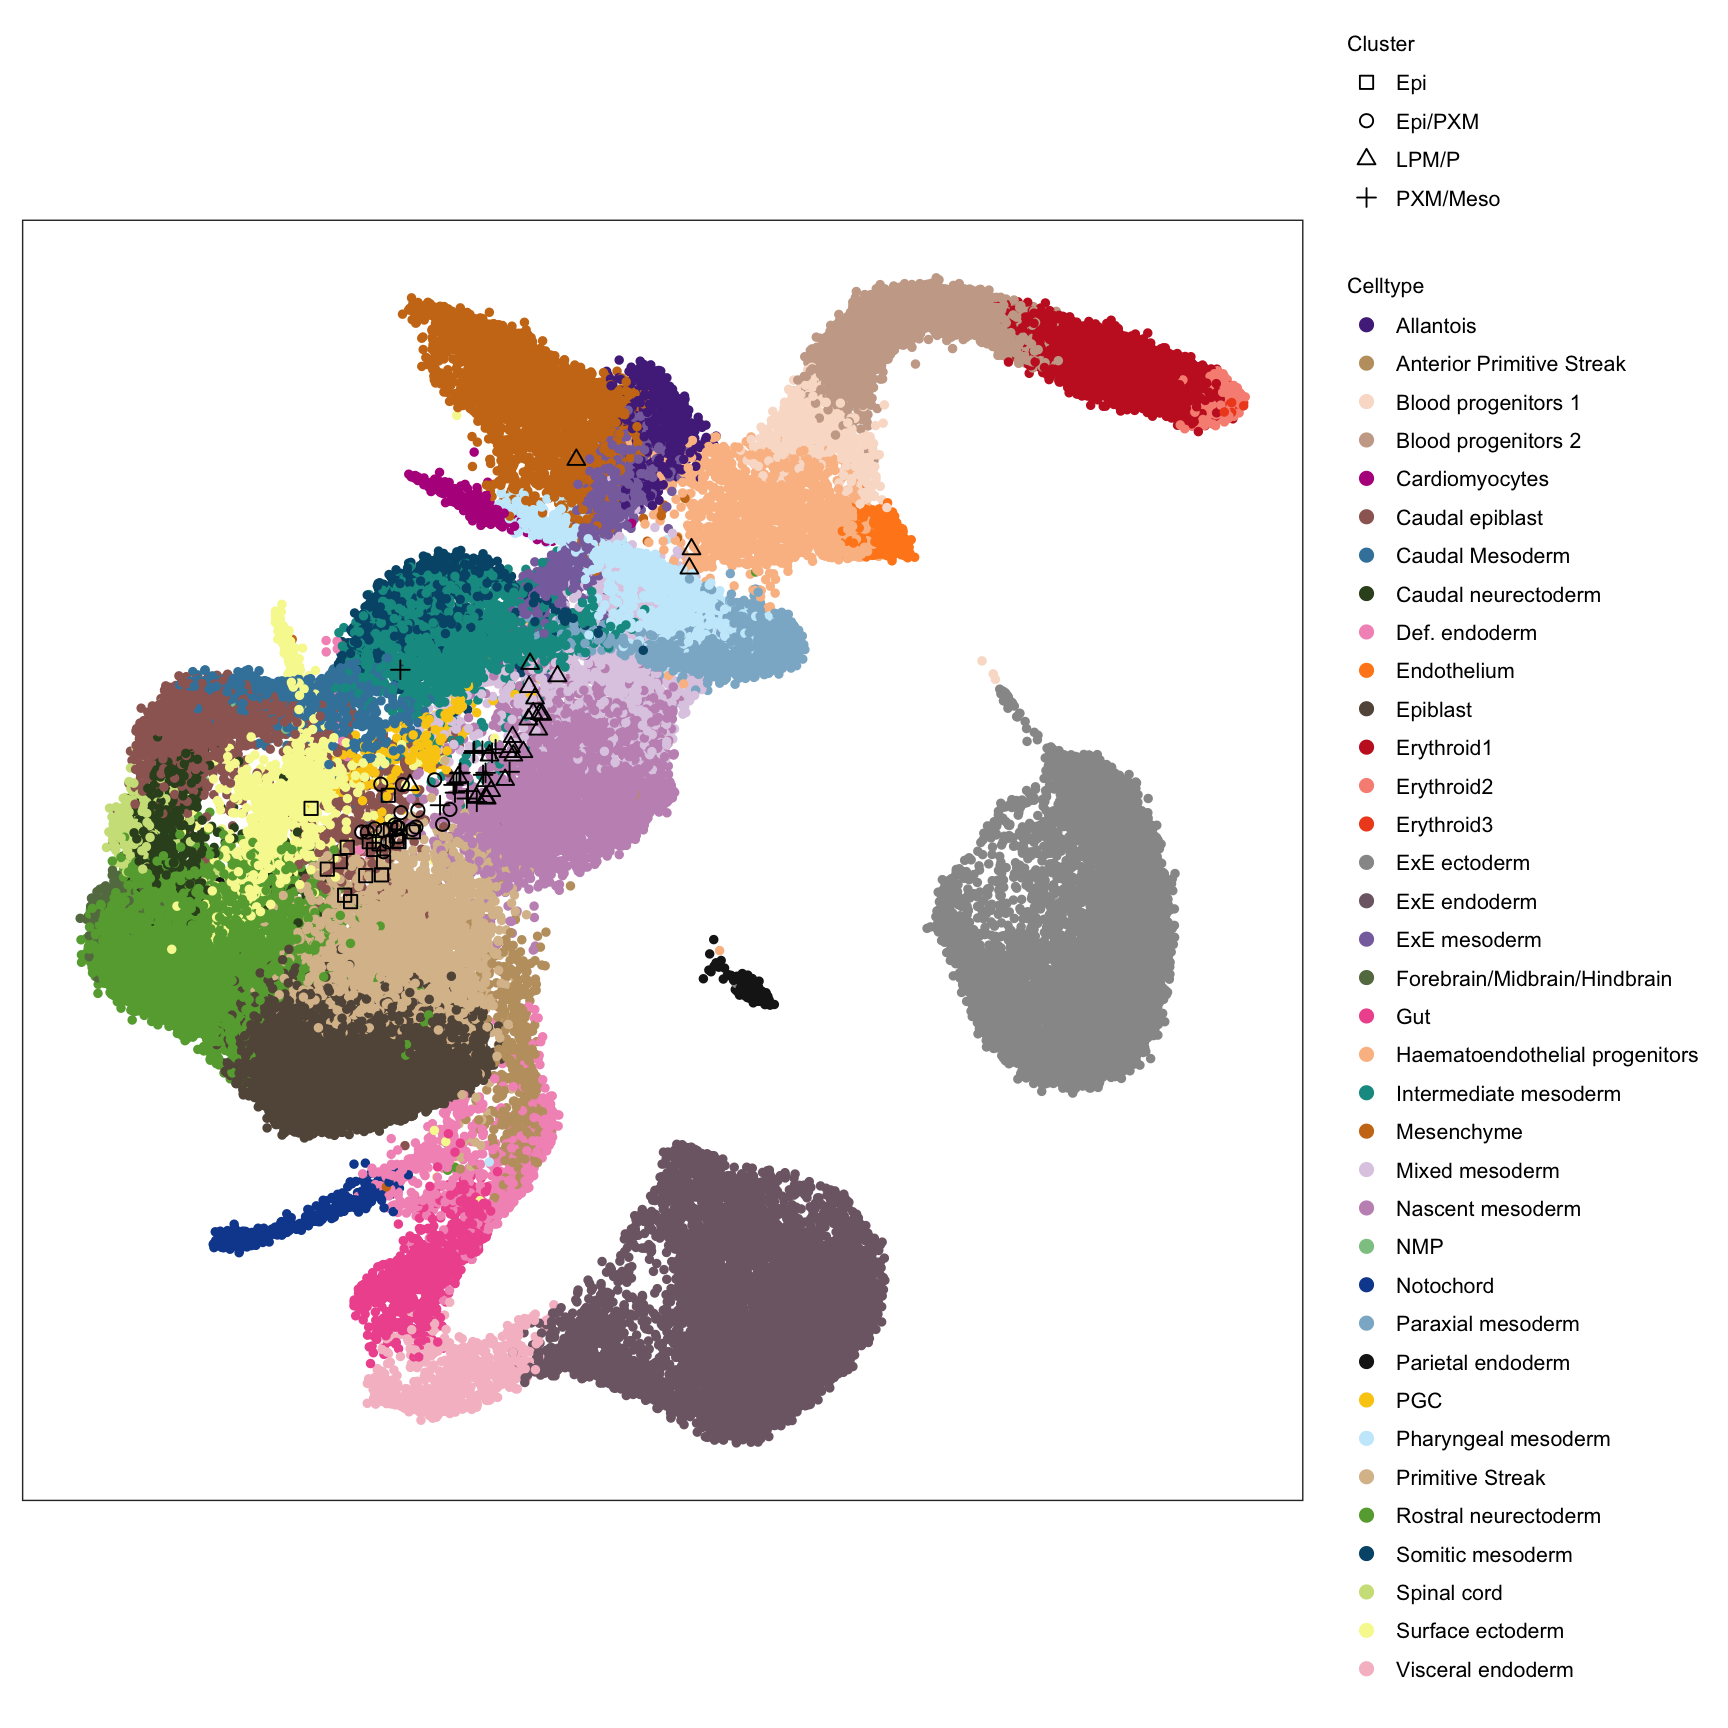
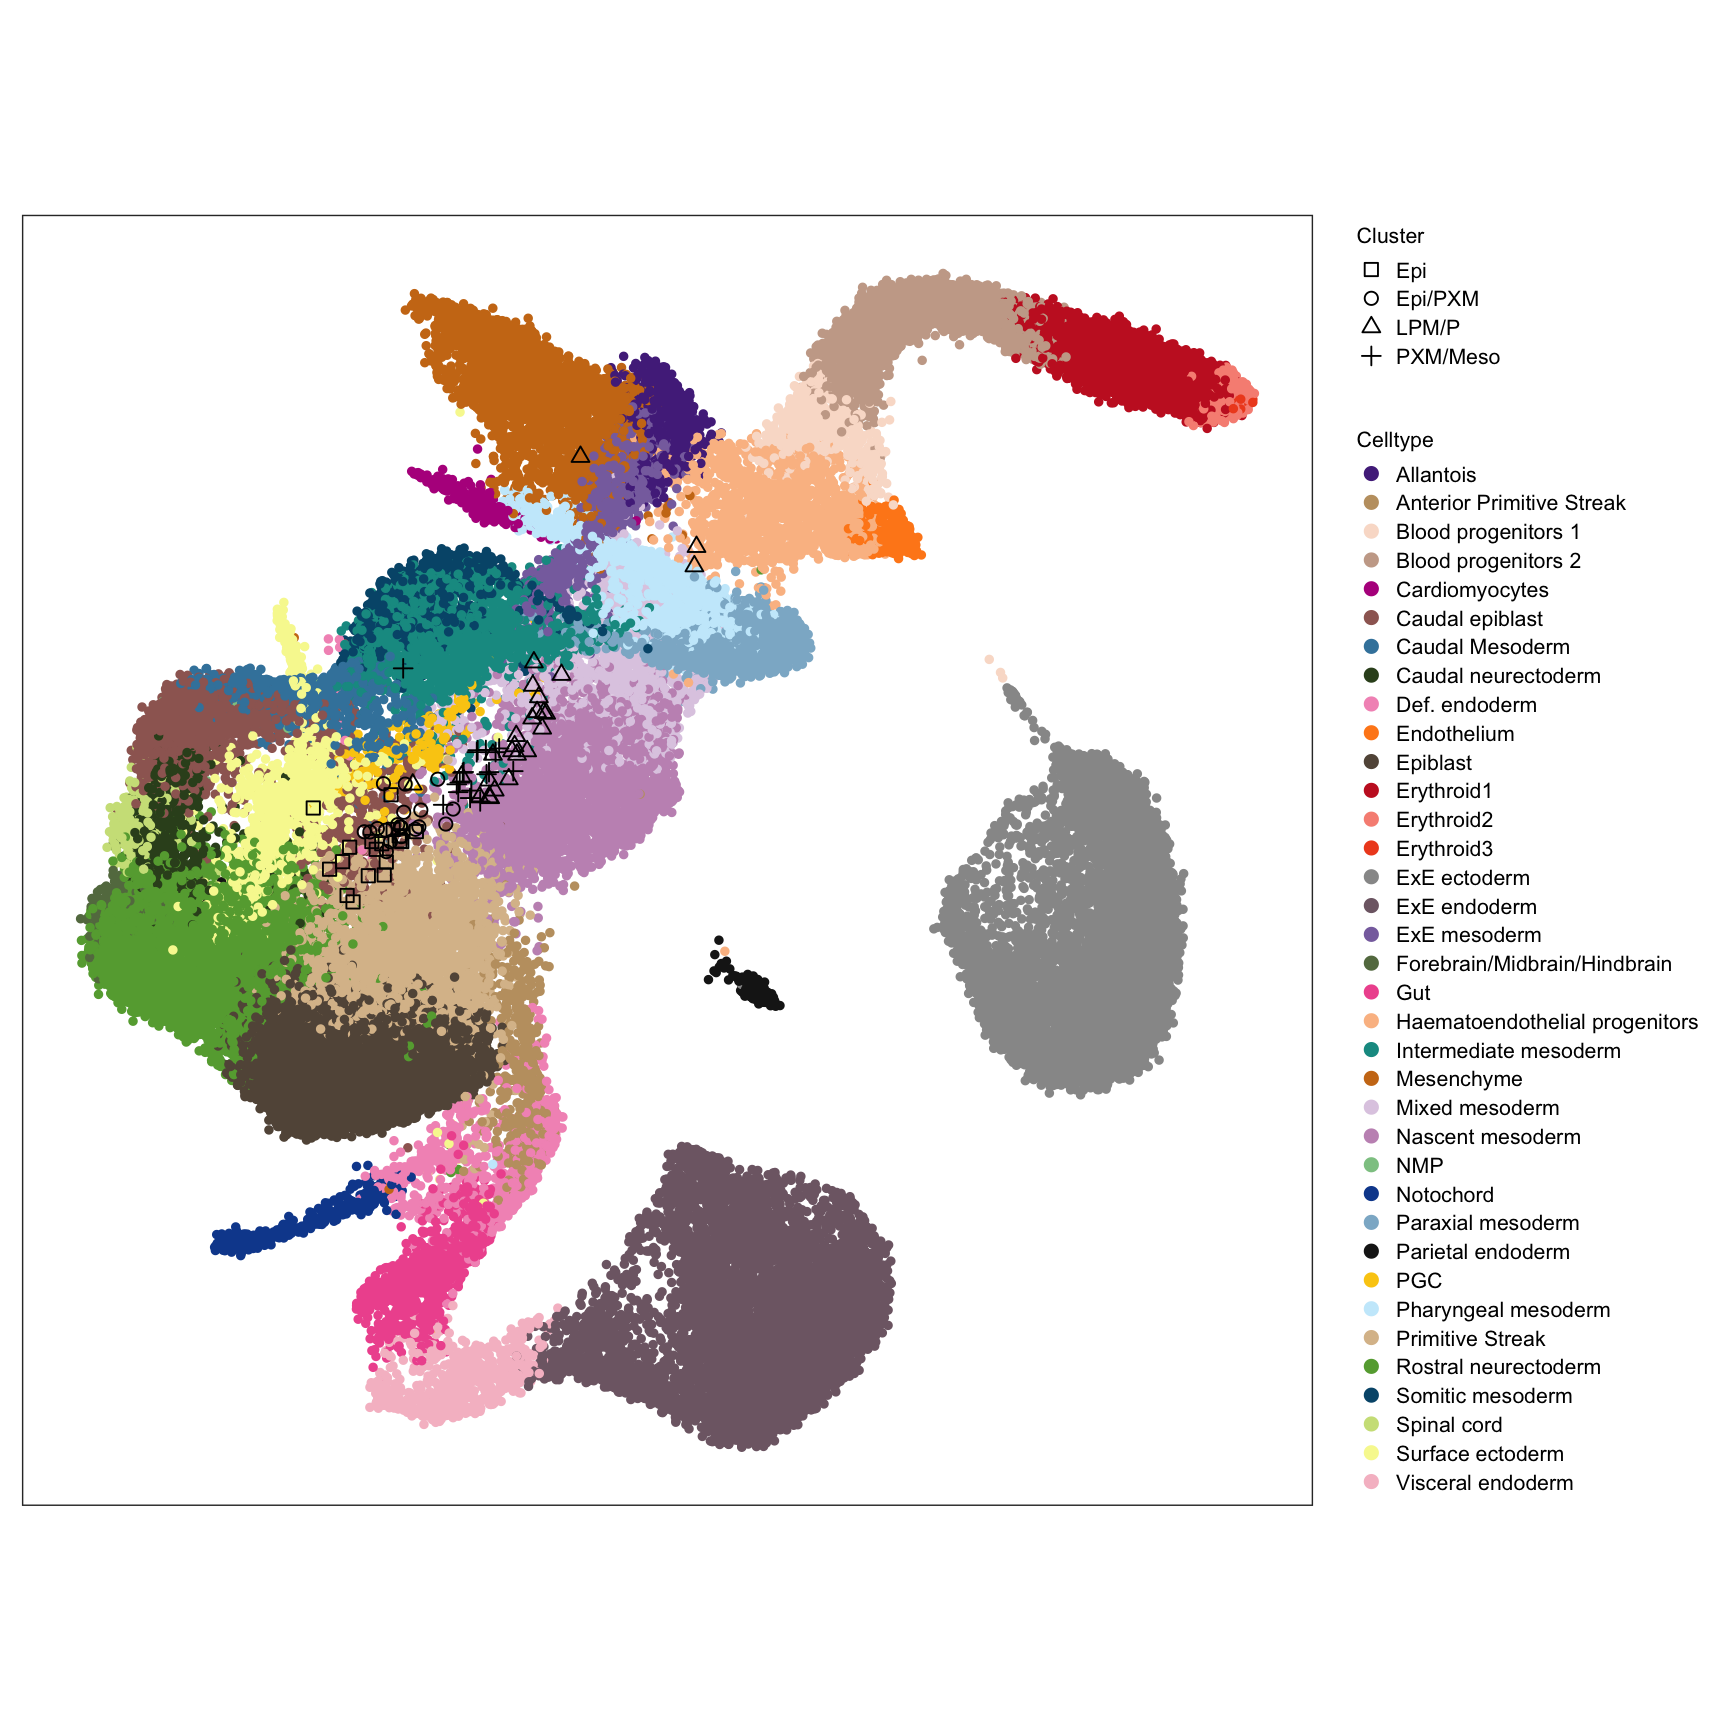
Build

diff --git a/docs/secondary-exploration.html b/docs/secondary-exploration.html
@@ -583,16 +583,16 @@ This reproducible <a href="http://rmarkdown.rstudio.com">R Markdown</a> analysis
 <div class="panel panel-default">
 <div class="panel-heading">
 <p class="panel-title">
-<a data-toggle="collapse" data-parent="#workflowr-checks" href="#strongRepositoryversionstrongahrefhttpsgithubcomjma1991LPMPEHFBtree6190fb89d73b80fcfb1f86d69ef3ce9ea8d49f45targetblank6190fb8a"> <span class="glyphicon glyphicon-ok text-success" aria-hidden="true"></span> <strong>Repository version:</strong> <a href="https://github.com/jma1991/LPMP_EHF_B/tree/6190fb89d73b80fcfb1f86d69ef3ce9ea8d49f45" target="_blank">6190fb8</a> </a>
+<a data-toggle="collapse" data-parent="#workflowr-checks" href="#strongRepositoryversionstrongahrefhttpsgithubcomjma1991LPMPEHFBtree0b4cbbefacf7e675fd948411c071d79d3efab1f1targetblank0b4cbbea"> <span class="glyphicon glyphicon-ok text-success" aria-hidden="true"></span> <strong>Repository version:</strong> <a href="https://github.com/jma1991/LPMP_EHF_B/tree/0b4cbbefacf7e675fd948411c071d79d3efab1f1" target="_blank">0b4cbbe</a> </a>
 </p>
 </div>
[2 lines of base64/hex data omitted]
 <div class="panel-body">
 <p>
 Great! You are using Git for version control. Tracking code development and connecting the code version to the results is critical for reproducibility.
 </p>
 <p>
-The results in this page were generated with repository version <a href="https://github.com/jma1991/LPMP_EHF_B/tree/6190fb89d73b80fcfb1f86d69ef3ce9ea8d49f45" target="_blank">6190fb8</a>. See the <em>Past versions</em> tab to see a history of the changes made to the R Markdown and HTML files.
+The results in this page were generated with repository version <a href="https://github.com/jma1991/LPMP_EHF_B/tree/0b4cbbefacf7e675fd948411c071d79d3efab1f1" target="_blank">0b4cbbe</a>. See the <em>Past versions</em> tab to see a history of the changes made to the R Markdown and HTML files.
 </p>
 <p>
 Note that you need to be careful to ensure that all relevant files for the analysis have been committed to Git prior to generating the results (you can use <code>wflow_publish</code> or <code>wflow_git_commit</code>). workflowr only checks the R Markdown file, but you know if there are other scripts or data files that it depends on. Below is the status of the Git repository when the results were generated:
@@ -662,6 +662,40 @@ Message
 </tr>
 </thead>
 <tbody>
+<tr>
+<td>
+Rmd
+</td>
+<td>
+<a href="https://github.com/jma1991/LPMP_EHF_B/blob/0b4cbbefacf7e675fd948411c071d79d3efab1f1/analysis/secondary-exploration.Rmd" target="_blank">0b4cbbe</a>
+</td>
+<td>
+James Ashmore
+</td>
+<td>
+2021-04-20
+</td>
+<td>
+Build
+</td>
+</tr>
+<tr>
+<td>
+html
+</td>
+<td>
+<a href="https://rawcdn.githack.com/jma1991/LPMP_EHF_B/b17a044c68eae9038d1b6babf5a407f41a95c99b/docs/secondary-exploration.html" target="_blank">b17a044</a>
+</td>
+<td>
+James Ashmore
+</td>
+<td>
+2021-04-20
+</td>
+<td>
+Build
+</td>
+</tr>
 <tr>
 <td>
 Rmd
@@ -1009,7 +1043,7 @@ shape.values &lt;- c(&quot;Epi&quot; = 0, &quot;Epi/PXM&quot; = 1, &quot;LPM/P&q
   theme_no_axes() + 
   theme(aspect.ratio = 1)
 
-addSmallLegend(plt, pointSize = 2, textSize = 8, spaceLegend = 1)</code></pre>
+addSmallLegend(plt, pointSize = 2, textSize = 8, spaceLegend = 0.75)</code></pre>
 <p><img src="figure/secondary-exploration.Rmd/unnamed-chunk-12-1.png" width="864" style="display: block; margin: auto;" /></p>
 <p>
 <button type="button" class="btn btn-default btn-xs btn-workflowr btn-workflowr-fig" data-toggle="collapse" data-target="#fig-unnamed-chunk-12-1">
@@ -1033,6 +1067,17 @@ Date
 </tr>
 </thead>
 <tbody>
+<tr>
+<td>
+<a href="https://github.com/jma1991/LPMP_EHF_B/blob/b17a044c68eae9038d1b6babf5a407f41a95c99b/docs/figure/secondary-exploration.Rmd/unnamed-chunk-12-1.png" target="_blank">b17a044</a>
+</td>
+<td>
+James Ashmore
+</td>
+<td>
+2021-04-20
+</td>
+</tr>
 <tr>
 <td>
 <a href="https://github.com/jma1991/LPMP_EHF_B/blob/a427da43df1511cb84d9c72b8dcbf673cc3009a4/docs/figure/secondary-exploration.Rmd/unnamed-chunk-12-1.png" target="_blank">a427da4</a>

diff --git a/docs/index.html b/docs/index.html
@@ -444,16 +444,16 @@ This reproducible <a href="http://rmarkdown.rstudio.com">R Markdown</a> analysis
 <div class="panel panel-default">
 <div class="panel-heading">
 <p class="panel-title">
-<a data-toggle="collapse" data-parent="#workflowr-checks" href="#strongRepositoryversionstrongahrefhttpsgithubcomjma1991LPMPEHFBtree6190fb89d73b80fcfb1f86d69ef3ce9ea8d49f45targetblank6190fb8a"> <span class="glyphicon glyphicon-ok text-success" aria-hidden="true"></span> <strong>Repository version:</strong> <a href="https://github.com/jma1991/LPMP_EHF_B/tree/6190fb89d73b80fcfb1f86d69ef3ce9ea8d49f45" target="_blank">6190fb8</a> </a>
+<a data-toggle="collapse" data-parent="#workflowr-checks" href="#strongRepositoryversionstrongahrefhttpsgithubcomjma1991LPMPEHFBtree0b4cbbefacf7e675fd948411c071d79d3efab1f1targetblank0b4cbbea"> <span class="glyphicon glyphicon-ok text-success" aria-hidden="true"></span> <strong>Repository version:</strong> <a href="https://github.com/jma1991/LPMP_EHF_B/tree/0b4cbbefacf7e675fd948411c071d79d3efab1f1" target="_blank">0b4cbbe</a> </a>
 </p>
 </div>
[2 lines of base64/hex data omitted]
 <div class="panel-body">
 <p>
 Great! You are using Git for version control. Tracking code development and connecting the code version to the results is critical for reproducibility.
 </p>
 <p>
-The results in this page were generated with repository version <a href="https://github.com/jma1991/LPMP_EHF_B/tree/6190fb89d73b80fcfb1f86d69ef3ce9ea8d49f45" target="_blank">6190fb8</a>. See the <em>Past versions</em> tab to see a history of the changes made to the R Markdown and HTML files.
+The results in this page were generated with repository version <a href="https://github.com/jma1991/LPMP_EHF_B/tree/0b4cbbefacf7e675fd948411c071d79d3efab1f1" target="_blank">0b4cbbe</a>. See the <em>Past versions</em> tab to see a history of the changes made to the R Markdown and HTML files.
 </p>
 <p>
 Note that you need to be careful to ensure that all relevant files for the analysis have been committed to Git prior to generating the results (you can use <code>wflow_publish</code> or <code>wflow_git_commit</code>). workflowr only checks the R Markdown file, but you know if there are other scripts or data files that it depends on. Below is the status of the Git repository when the results were generated:
@@ -523,6 +523,23 @@ Message
 </tr>
 </thead>
 <tbody>
+<tr>
+<td>
+html
+</td>
+<td>
+<a href="https://rawcdn.githack.com/jma1991/LPMP_EHF_B/b17a044c68eae9038d1b6babf5a407f41a95c99b/docs/index.html" target="_blank">b17a044</a>
+</td>
+<td>
+James Ashmore
+</td>
+<td>
+2021-04-20
+</td>
+<td>
+Build
+</td>
+</tr>
 <tr>
 <td>
 html
